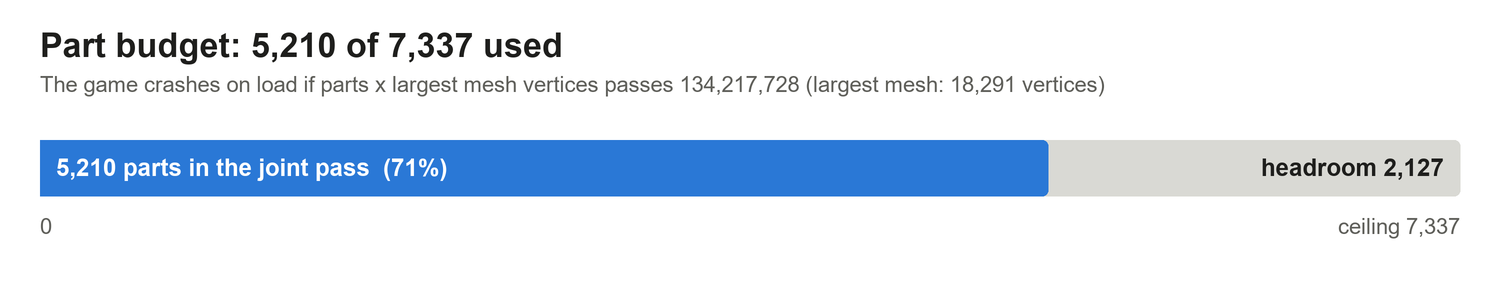
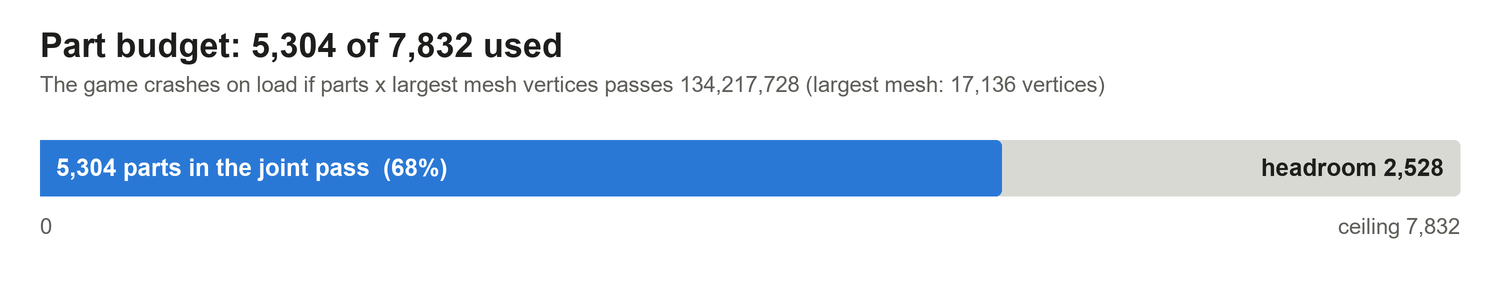
MCRN Corvette docs: v0.9.10 statistics and charts from the 23 November census

diff --git a/Docs/Tachi_Ship_Statistics.md b/Docs/Tachi_Ship_Statistics.md
@@ -2,7 +2,7 @@
 
 A custom salvage ship for Hardspace: Shipbreaker, modeled on the MCRN Corvette-class light frigate *Tachi* from *The Expanse*.
 
-Version 0.9.9, 22 November 2026. Figures marked v0.9.9 are the v0.9.8 measurements carried forward by the changes made since, counted in the ship's files: the MCRN Tachi has the same parts (20 data drives became other pickups), and the Rocinante has 7 fewer (its railgun adds 9; 4 hull parts and 3 double terminals of 4 parts each make way for it). Two loads of 22 November check them: the Rocinante logged 5,097 parts, as calculated, and the Gas Hauler 5,687. The v0.9.8 measurements are from loads of 21 November: the MCRN Tachi as a normal ship and the Rocinante as a ghost ship. The category, section and loose-part tables are from a census of the Rocinante on the v0.9.8 build, with the furniture parts the MCRN Tachi has in addition added in. The Gas Hauler's other figures are still from the v0.9.7 builds of 20 November 2026. Base ship ("MCRN Tachi") part figures are from the build of 20 November, 21:52 (the release build); Gas variant ("Beratnas Gas Hauler") part figures are from the load of 20 November, 19:59, and are marked where the two differ in date. "Measured" means taken from the game or the editor on that build. "Estimate" means calculated, with the method given.
+Version 0.9.10, 23 November 2026. The MCRN Tachi figures, its categories and its loose parts are from a load of the v0.9.10 build on 23 November, with the mod's spawn census. The Gas Hauler's part counts, loose parts and cut points are from a load of the same day as a ghost ship; its normal-ship counts are those less its 59 nodes. The Rocinante was not loaded on this build: its figures are its v0.9.9 counts plus the 94 parts the base ship gained (the point defense housings rebuilt, the rings cut in eight, the fore hull regrouped). The section tables are from the v0.9.8 census and were not re-measured. "Measured" means taken from the game or the editor on that build. "Estimate" means calculated, with the method given.
 
 ## At a glance
 
@@ -11,12 +11,12 @@ Version 0.9.9, 22 November 2026. Figures marked v0.9.9 are the v0.9.8 measuremen
 | Length (engine bell to antenna tip) | 133.7 m |
 | Beam (port to starboard, over the gun mounts) | 54.6 m (Gas variant, over the tank racks: 67.2 m) |
 | Height (dorsal to ventral) | 46.3 m (Gas variant: 55.1 m) |
-| Parts counted at load | 5,210 (MCRN Tachi) · 5,097 (Rocinante) · 5,687 (Gas variant), all v0.9.9 |
+| Parts counted at load | 5,304 (MCRN Tachi) · 5,191 (Rocinante, calculated) · 5,729 (Gas variant), all v0.9.10 |
 | As a ghost ship | 59 Protomolecule nodes and 251 growth patches more (see Ghost ship content) |
-| Cut points | 254 (Gas variant: 333) |
-| Loose items at spawn | 180 (props, pickups and one floating corpse, in one of six places) |
+| Cut points | 258 (Gas variant: 341) |
+| Loose items at spawn | 183 (props, pickups and one floating corpse, in one of six places) |
 | Estimated mass | at least 268 t (Gas variant: about 394 t; see Mass) |
-| Download size | 203 MB (zip, all three variants) |
+| Download size | 194 MB (zip, all three variants) |
 | Load time on the test PC | 45 to 138 s |
 
 ---
@@ -44,12 +44,14 @@ Measured on the test PC, from choosing the ship to being able to move:
 | 21 Nov, v0.9.8, MCRN Tachi | 53.8 s | 37.3 s | 16.4 s |
 | 21 Nov, v0.9.8, Rocinante as a ghost ship | 68.1 s | 50.2 s | 17.9 s |
 | 22 Nov, v0.9.9, Gas variant | 71.3 s | 36.9 s | 34.4 s |
+| 23 Nov, v0.9.10, MCRN Tachi | 47.2 s | 37.0 s | 10.2 s |
+| 23 Nov, v0.9.10, Gas variant as a ghost ship | 62.2 s | 49.5 s | 12.7 s |
 
 The v0.9.5 run had the mod's part-data capture switched on, which adds load time, so it overstates a normal load.
 
 Test PC: AMD Ryzen 7 5800X (8 cores), 64 GB RAM, NVMe SSD, RTX 4070 Ti.
 
-The last stage takes about 15 to 30 s. The asset-loading stage varied more than threefold between runs on the same machine, so expect a wide spread; the two longest runs each followed a fresh build of the ship.
+The last stage takes about 10 to 35 s. The asset-loading stage varied more than threefold between runs on the same machine, so expect a wide spread; the two longest runs each followed a fresh build of the ship.
 
 **Expected load time on other hardware.** These are estimates scaled from the shortest and longest runs above, not measurements. No other machine has been timed.
 
@@ -68,23 +70,22 @@ If the game sits on the loading screen for more than ten minutes, treat it as a 
 
 | | |
 |---|---|
-| Live parts at spawn (every piece the game simulates) | 5,212 (v0.9.9, unchanged from v0.9.8: 5,106 counted on the Rocinante, plus 106) |
-| Parts counted by the game's joint pass | 5,210 (v0.9.9 and v0.9.8; 5,208 on v0.9.7) |
-| Objects in the ship that never become parts | 276 (see below) |
-| Largest mesh | `PDC_Mid_Port_Nest_02`, 18,291 vertices |
-| Part ceiling at that mesh size | 7,337 |
-| Headroom | 2,127 parts |
+| Live parts at spawn (every piece the game simulates) | 5,306 (v0.9.10) |
+| Parts counted by the game's joint pass | 5,304 (v0.9.10; 5,210 on v0.9.9) |
+| Objects in the ship that never become parts | 260 (see below) |
+| Largest mesh | `Suit_Hanging` (a stock hanging suit), 17,136 vertices |
+| Part ceiling at that mesh size | 7,832 |
+| Headroom | 2,528 parts |
 
-**The part ceiling.** While the ship loads, the game multiplies the number of parts by the vertex count of the largest single mesh. If that product passes 134,217,728 the game crashes on load. With the current largest mesh that allows 7,337 parts. Adding parts, or adding one mesh larger than 18,291 vertices, both use up the headroom.
+**The part ceiling.** While the ship loads, the game multiplies the number of parts by the vertex count of the largest single mesh. If that product passes 134,217,728 the game crashes on load. With the current largest mesh that allows 7,832 parts. Adding parts, or adding one mesh larger than 17,136 vertices, both use up the headroom. The rebuilt point defense housings took the ship's own largest mesh (18,291 vertices) below the stock suit's.
 
-**Objects that never become parts.** 277 objects in the ship are switched off by the game's own prefabs and are not simulated:
+**Objects that never become parts.** 260 objects in the ship are switched off by the game's own prefabs and are not simulated:
 
 | Object | Count |
 |---|---|
 | Ladder rungs | 248 |
-| Door frame caps | 6 |
 | Room cage bars | 4 |
-| Other (airlock coupler joints, railings, spare suit meshes, one pickup) | 19 |
+| Other (railings, spare suit meshes, a spare part, a data drive, the old airlock entry top) | 8 |
 
 ### Parts by category
 
@@ -92,16 +93,16 @@ If the game sits on the loading screen for more than ten minutes, treat it as a 
 
 | Category | Parts | Share |
 |---|---|---|
-| Furniture and props | 1,708 | 32.8 % |
-| Decks, walls, stairs and doors | 1,013 | 19.4 % |
-| Pipes and cables | 825 | 15.8 % |
-| Machinery, power and weapons | 755 | 14.5 % |
-| Cut points | 254 | 4.9 % |
-| Lights | 246 | 4.7 % |
-| Hull panels | 207 | 4.0 % |
-| Structural frame | 204 | 3.9 % |
+| Furniture and props | 1,708 | 32.2 % |
+| Decks, walls, stairs and doors | 1,015 | 19.1 % |
+| Machinery, power and weapons | 846 | 15.9 % |
+| Pipes and cables | 822 | 15.5 % |
+| Cut points | 258 | 4.9 % |
+| Lights | 246 | 4.6 % |
+| Hull panels | 207 | 3.9 % |
+| Structural frame | 204 | 3.8 % |
 
-The category table is from the v0.9.8 census of the Rocinante (1,608 furniture parts and the same figures in every other row), with the MCRN Tachi's 106 extra furniture parts added: its extra bunks, galley tables, chairs and bottles. In v0.9.9, 20 data drives became other pickups; the 6 thruster fuel cans among them count as machinery, as the ship's other fuel cans do, so 6 parts move from furniture to machinery. The section tables are from the same census, with the 106 parts added to the interior, where they all are. Four pipe pieces at the fore thermal vents carry the cut point type so that they do not joint to the vents; they are counted here as pipe.
+The category table is from the v0.9.10 census of the MCRN Tachi. Against v0.9.9 the rebuilt point defense housings add 91 machinery parts, and the regrouped fore hull adds 4 cut points. The section tables are from the v0.9.8 census of the Rocinante, with the MCRN Tachi's 106 extra furniture parts added to the interior, where they all are. Four pipe pieces at the fore thermal vents carry the cut point type so that they do not joint to the vents; they are counted here as pipe.
 
 Categories are assigned from each part's joint type and name. The rules were rewritten for v0.9.5, so these shares are not comparable with earlier versions of this document.
 
@@ -120,30 +121,30 @@ The floating corpse and its suit (14 parts) spawn in one of six places. In this 
 
 ### Loose parts
 
-Every structural part of the ship is attached. At spawn the main structure is one body of 5,032 parts, and nothing structural is separate from it.
+At spawn the main structure is one body of 5,123 parts. Two fittings are loose in this build: a railing and a thruster terminal.
 
 | | |
 |---|---|
-| Main structure | 5,032 parts in one body |
-| Loose parts | 180, in 155 separate bodies |
-| Loose single items | 145 |
-| Loose bodies of more than one part | 10 |
+| Main structure | 5,123 parts in one body |
+| Loose parts | 183, in 159 separate bodies |
+| Loose single items | 150 |
+| Loose bodies of more than one part | 9 |
 
-All 180 loose parts are items meant to float or be picked up:
+Apart from the railing and the terminal, all 183 loose parts are items meant to float or be picked up:
 
 ![Loose parts by type](Tachi_Loose_Parts.png)
 
 | Type | Parts | Share |
 |---|---|---|
-| Galley items (bowls, food, coffee maker, vending parts) | 38 | 21.1 % |
-| Bottles | 32 | 17.8 % |
-| Supply pickups (oxygen, thruster fuel, med and patch kits) | 20 | 11.1 % |
-| Snack packs | 19 | 10.6 % |
-| Suit pieces and helmets | 18 | 10.0 % |
-| Other (ten spare-part pickups, wall chestplates, a repair kit, a toy, two salvage bay objects) | 17 | 9.4 % |
-| Floating corpse and its suit | 15 | 8.3 % |
-| Data and credit drives | 14 | 7.8 % |
-| Crates and pouches | 5 | 2.8 % |
+| Galley items (bowls, food, coffee maker, vending parts) | 38 | 20.8 % |
+| Bottles | 32 | 17.5 % |
+| Supply pickups (oxygen, thruster fuel, med and patch kits) | 20 | 10.9 % |
+| Other (ten spare-part pickups, wall chestplates, a repair kit, a toy, two salvage bay objects, a railing, a thruster terminal) | 19 | 10.4 % |
+| Snack packs | 19 | 10.4 % |
+| Suit pieces and helmets | 18 | 9.8 % |
+| Floating corpse and its suit | 15 | 8.2 % |
+| Data and credit drives | 15 | 8.2 % |
+| Crates and pouches | 5 | 2.7 % |
 | Desk items | 2 | 1.1 % |
 
 The loose bodies of more than one part:
@@ -153,7 +154,7 @@ The loose bodies of more than one part:
 | Floating corpse | 13 |
 | Bowl, spoon and food set | 5 |
 | Coffee maker, pot and vending part | 3 |
-| Seven pairs of small items | 2 each |
+| Six pairs of small items | 2 each |
 
 ### Pipes, cut points and hull colliders
 
@@ -216,12 +217,12 @@ The ship comes in three versions, each listed as its own ship in Free Play and o
 |---|---|---|---|
 | What differs | | Colors as an independent warship, Belter posters, less furniture | Colors, 24 external tanks on trusses, point defense cannons removed, own bay pose, Belter posters, less furniture |
 | How it is picked | Own ship entry | Own ship entry | Own ship entry |
-| Live parts at spawn | 5,212 (v0.9.9, see Parts) | 5,099 (v0.9.9: the v0.9.8 census of 5,106, less 7) | 5,868 (v0.9.7, measured before 20 objects were switched off) |
-| Parts counted by the joint pass | 5,210 (v0.9.9) | 5,097 as a normal ship, 5,156 as a ghost ship (v0.9.9) | 5,687 (v0.9.9, load of 22 November) |
-| Headroom under the part ceiling | 2,127 | 2,240 (2,181 as a ghost ship) | 1,650 |
-| Main structure | 5,032 | 4,929 | 5,684 |
-| Loose parts | 180 in 155 bodies | 177 in 152 bodies | 184 in 159 bodies |
-| Cut points | 254 | 254 | 333 |
+| Live parts at spawn | 5,306 (v0.9.10, see Parts) | 5,193 (calculated: v0.9.9 plus 94) | 5,731 (v0.9.10; 5,790 as a ghost ship) |
+| Parts counted by the joint pass | 5,304 (v0.9.10) | 5,191 as a normal ship, 5,250 as a ghost ship (calculated) | 5,729 as a normal ship, 5,788 as a ghost ship (v0.9.10) |
+| Headroom under the part ceiling | 2,528 | 2,641 (2,582 as a ghost ship) | 2,103 (2,044 as a ghost ship) |
+| Main structure | 5,123 | about 5,010 | 5,600 as a ghost ship |
+| Loose parts | 183 in 159 bodies | about 180 in 156 bodies | 190 in 160 bodies, as a ghost ship |
+| Cut points | 258 | 258 | 341 |
 | Size (length x beam x height) | 133.7 x 54.6 x 46.3 m | same | 133.7 x 67.2 x 55.1 m |
 | Estimated mass | at least 268 t | same | about 394 t (see Mass) |
 | Wall posters at 30 spots | MCRN | Belter | Belter |
@@ -232,7 +233,7 @@ The ship comes in three versions, each listed as its own ship in Free Play and o
 | Floating corpse | one, in one of 6 places, as one of 7 factions, each with its own suit colors and visor | same | same |
 | As a ghost ship | 59 Protomolecule nodes, 251 growth patches | same | same |
 
-Base figures are from the build of 20 November, 21:52 (the release build). Gas figures are from the load of 20 November, 19:59, before the last interior changes of that evening (four flight deck seats replaced by server towers, a galley table and two chairs removed), which take about 60 parts off every variant.
+MCRN Tachi and Gas Hauler figures are from loads of the v0.9.10 build on 23 November; the Gas Hauler was loaded as a ghost ship. Rocinante figures are calculated, as described at the top.
 
 **Interior differences.** The three ships share one interior, with these differences:
 
@@ -290,10 +291,10 @@ The game works out a part's mass from its material density and the volume of its
 
 | | |
 |---|---|
-| Cut points | 254 |
+| Cut points | 258 |
 | Forced joint groups (MJC) | 94 (counted on an earlier build) |
 | Reactor mount | 4 slanted beams, each tied to a reactor panel and the cryo room floor by a cut point |
-| Forward hull groups | 8, each under 20 t, tied by 11 internal cut points |
+| Forward hull groups | 9, tied by 15 internal cut points; the largest ventral panel is a group of its own |
 | Forward section to Engineering | 4 internal cut points |
 | Torpedo salvage value | 1,218,750 credits each, 12 aboard (flat value from the blueprint) |
 
@@ -306,7 +307,7 @@ The game works out a part's mass from its material density and the volume of its
 | B_External | Engineering hull, support ring, engine | 257 | 54.4 × 28.0 × 46.3 | 70.9 | 32 |
 | B_Internal | Aft airlock, cryogenics, fusion reactor | 464 | 28.8 × 23.1 × 21.0 | 34.6 | 14 |
 
-Sizes and masses were measured on an earlier 18 November build and not re-measured since; the changes since then (a reactor mount of 12 parts, two roof generators, spare-part pickups, the inside plates) do not move them noticeably. The live-part and cut-point columns are from the v0.9.8 census; v0.9.9 does not change them on the MCRN Tachi. Section masses carry the same caveat as the total. The interior figure is the least complete, because it is mostly stock assemblies.
+Sizes and masses were measured on an earlier 18 November build and not re-measured since; the changes since then (a reactor mount of 12 parts, two roof generators, spare-part pickups, the inside plates) do not move them noticeably. The live-part and cut-point columns are from the v0.9.8 census and were not re-measured for v0.9.10, which adds parts to the point defense housings and the forward hull. Section masses carry the same caveat as the total. The interior figure is the least complete, because it is mostly stock assemblies.
 
 ---
 
@@ -397,6 +398,7 @@ The lore gives performance figures for the Epstein drive in general, not for thi
 | Dimensions, per-section sizes | Part bounds in the Unity editor |
 | Volume | Calculated from part bounds, as described above |
 | Mass | Calculated with the game's own formula from mesh volume and material density, plus game-reported masses for stock parts |
+| v0.9.10 figures | The mod's spawn census on loads of 23 November: MCRN Tachi as a normal ship, Gas variant as a ghost ship (its normal-ship counts are those less 59 nodes). Rocinante: its v0.9.9 count plus the 94 parts the base ship gained |
 | v0.9.9 part counts | The v0.9.8 counts, changed by the objects added, removed and switched off in the ship's files since: none on the MCRN Tachi, 7 fewer on the Rocinante. Checked against the part counts the PartInfoLogger mod logged on two loads of 22 November: Rocinante 5,097, Gas variant 5,687. Loose parts by type: 20 floating data drives became 7 credit drives, 7 oxygen cans and 6 thruster fuel cans |
 | v0.9.8 part counts and load times | Logged by the PartInfoLogger mod on loads of 21 November: MCRN Tachi as a normal ship, Rocinante as a ghost ship. The Rocinante normal-ship count is the ghost count less its 59 nodes |
 | Ghost ship content | Counted from the spawn points in the ship prefab |
